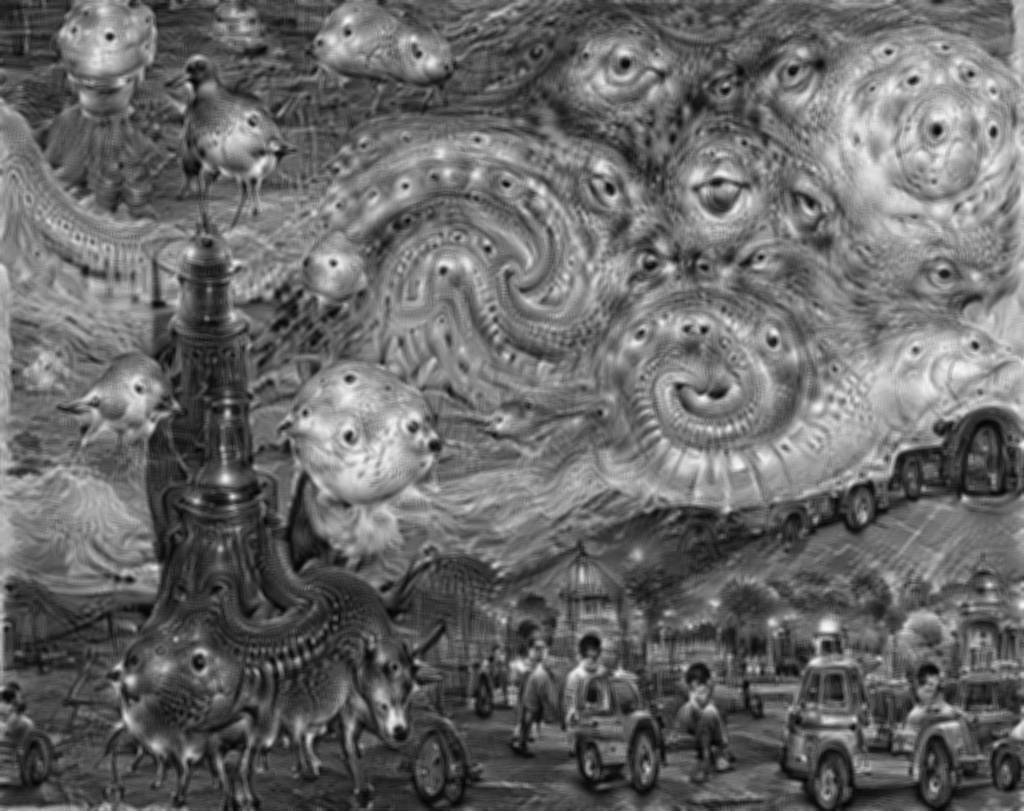
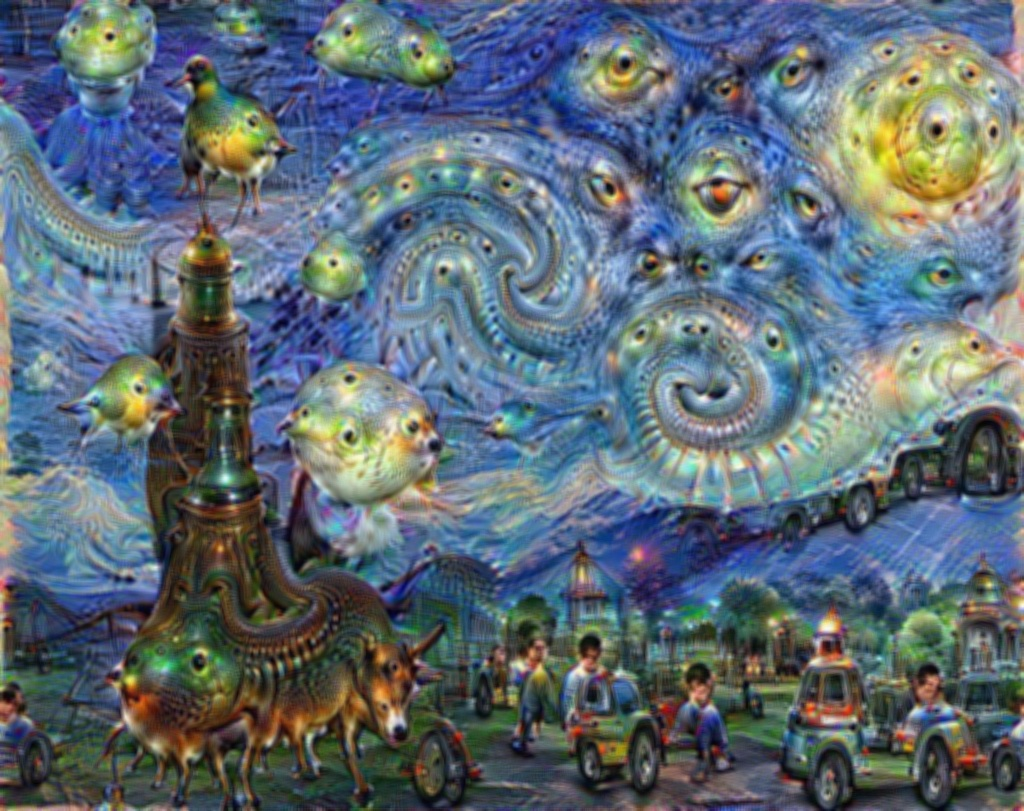
Add binary mask

diff --git a/src/pg_main.cpp b/src/pg_main.cpp
@@ -44,7 +44,8 @@ int main(int argc, char** argv)
 {
     cv::Mat blurred_img;
     cv::Mat mask_img;
-    cv::Mat cv_img;
+    cv::Mat src_img;
+    cv::Mat src_gray;
 
     // initialize parameters for filter2D
     cv::Point anchor = cv::Point(-1, -1);
@@ -52,8 +53,6 @@ int main(int argc, char** argv)
     double delta = 0;
     int ddepth = -1;
 
-    // define filter
-    cv::Mat kernel = cv::Mat::ones(kernel_size, kernel_size, CV_32F)/(float)(kernel_size*kernel_size);
     
     // do work here
     try
@@ -61,23 +60,34 @@ int main(int argc, char** argv)
         // this will have to be adjusted based on where/how you are running the code... It should work for VS debugging
         std::string test_file = "C:/Users/Javier/Documents/Projects/playground/images/4ZSWD4L.jpg";
 
-        // read image as grayscale
-        cv_img = cv::imread(test_file, cv::IMREAD_GRAYSCALE);
+        // read image 
+        src_img = cv::imread(test_file, cv::IMREAD_COLOR);
         
         std::string cv_window = "Original Image";
         cv::namedWindow(cv_window, cv::WINDOW_NORMAL | cv::WINDOW_KEEPRATIO);
-        cv::imshow(cv_window, cv_img);
+        cv::imshow(cv_window, src_img);
         cv::waitKey(0);
 
-        std::cout << std::endl << "kernel = " << std::endl << " " << kernel << std::endl << std::endl;
 
-        cv_window = "Filtered Image";
-        cv::filter2D(cv_img, mask_img, ddepth, kernel, anchor, delta , cv::BORDER_DEFAULT);
+        cv_window = "Mask Image";
+        cv::cvtColor(src_img, src_gray, cv::COLOR_BGR2GRAY);
+        cv::threshold(src_gray, mask_img, 120, 255, cv::THRESH_BINARY);
         cv::imshow(cv_window, mask_img);
         cv::waitKey(0);
 
-        // save new image
-        cv::imwrite("C:/Users/Javier/Documents/Projects/playground/images/4ZSWD4L_blur.jpg", mask_img);
+
+        // define blur filter
+        cv::Mat kernel = cv::Mat::ones(kernel_size, kernel_size, CV_32F) / (float)(kernel_size * kernel_size);
+        std::cout << std::endl << "kernel = " << std::endl << " " << kernel << std::endl << std::endl;
+
+        cv_window = "Blurred Image";
+        cv::filter2D(src_img, blurred_img, ddepth, kernel, anchor, delta , cv::BORDER_DEFAULT);
+        cv::imshow(cv_window, blurred_img);
+        cv::waitKey(0);
+
+        // save new images
+        cv::imwrite("C:/Users/Javier/Documents/Projects/playground/images/4ZSWD4L_blur.jpg", blurred_img);
+        cv::imwrite("C:/Users/Javier/Documents/Projects/playground/images/4ZSWD4L_mask.jpg", mask_img);
 
     }
     catch(std::exception& e)
